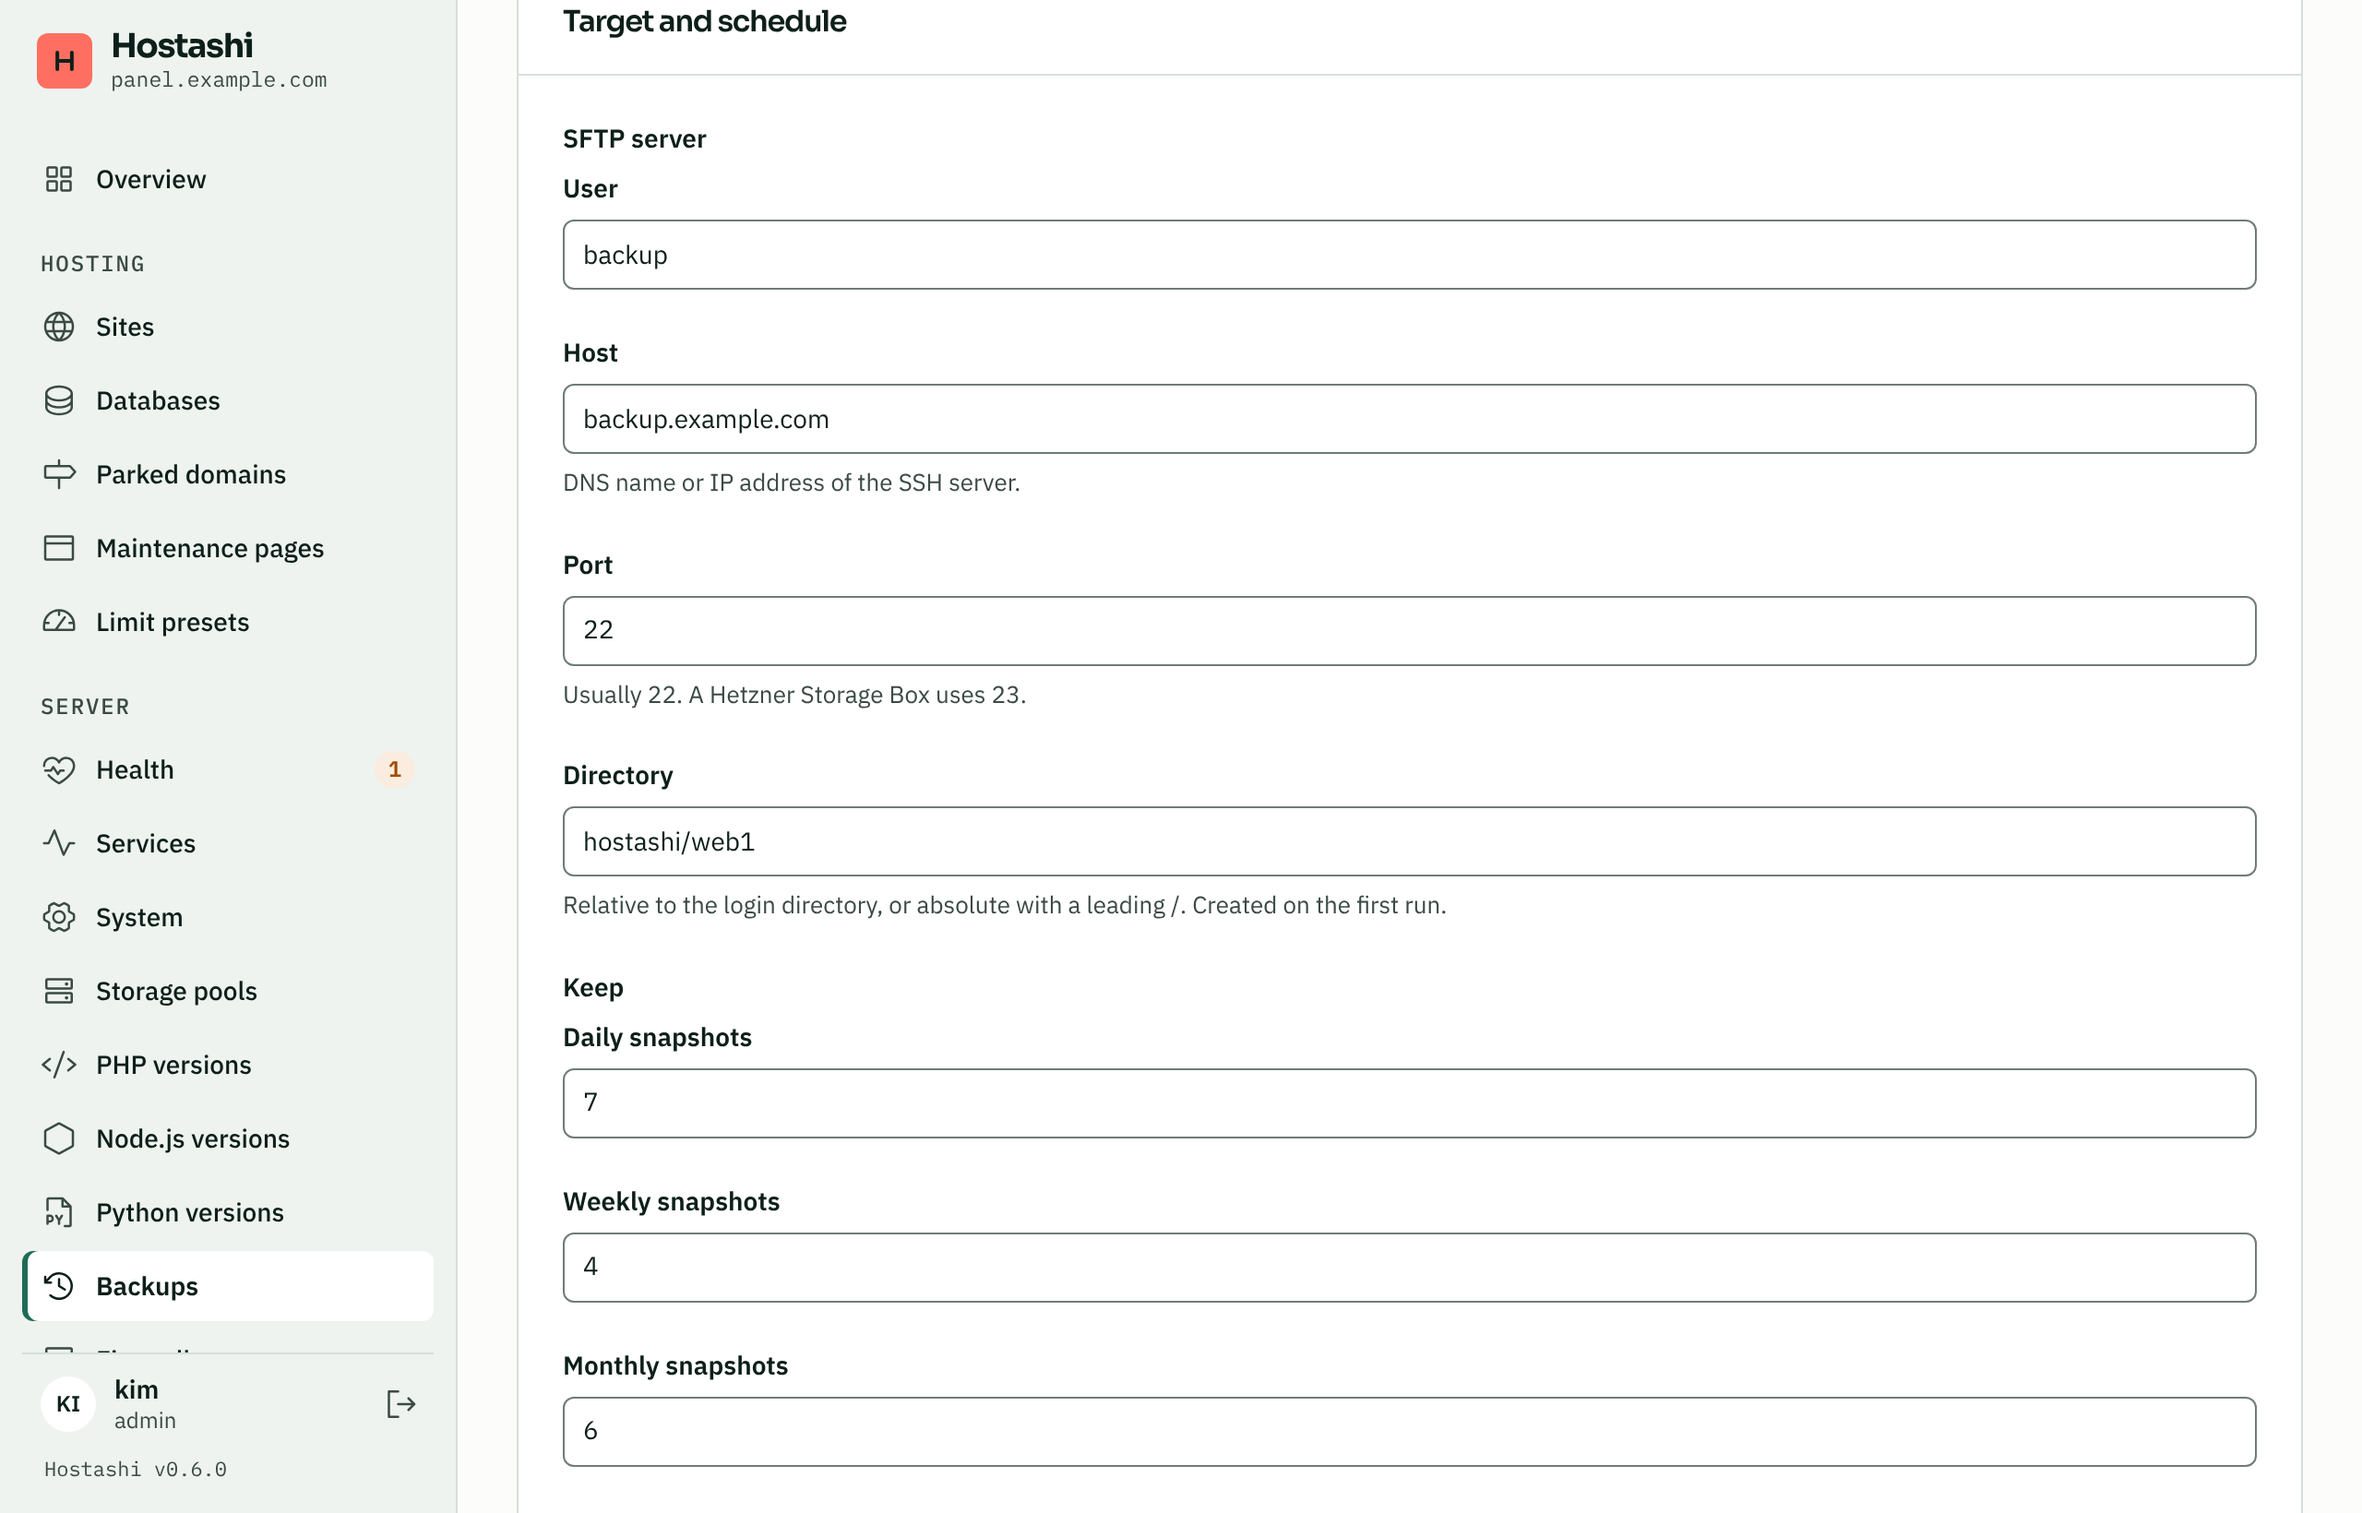
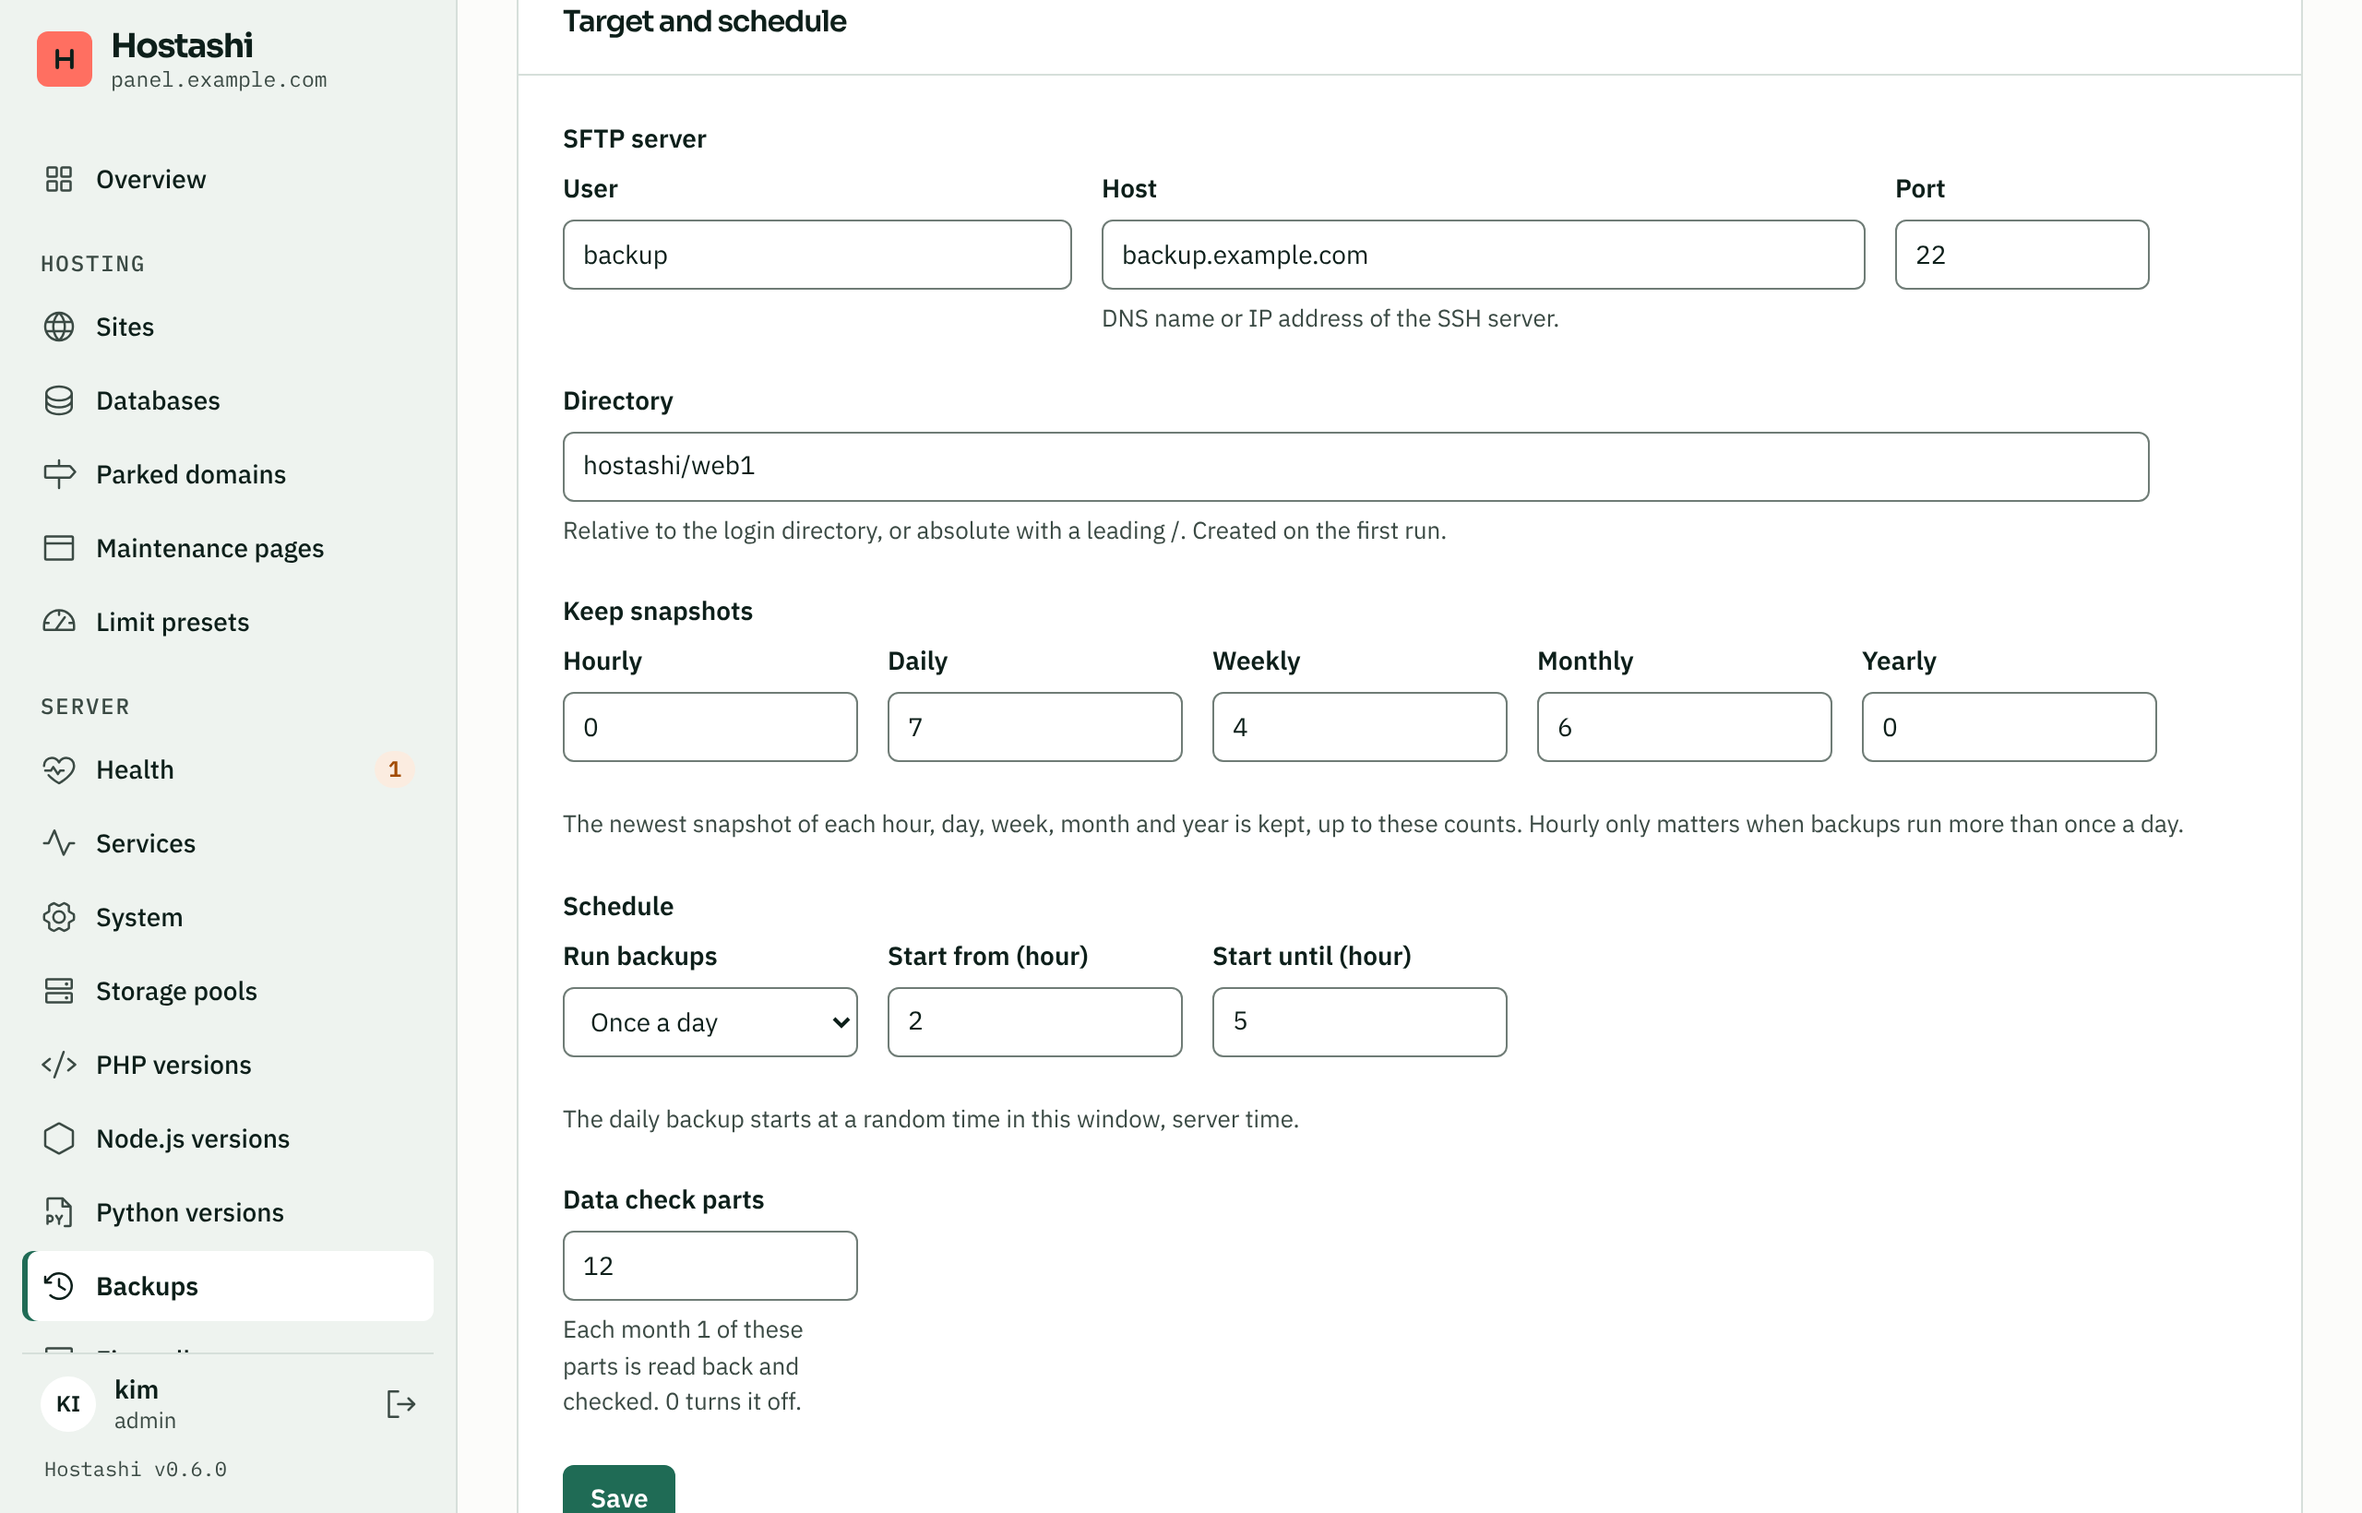
feat(web): choose the backup interval and keep hourly and yearly snapshots (#539)
<!-- claude-projects-attribution: {"github_login":"kimdre"} -->
_Requested by **Kim** · [project
thread](https://claude.ai/code/project/chan_01ALnqCLrQvqEQfEqJ3W4NGd?thread=cmsg_01ALnqCLrQvqEQfEqJ3W4NGd8wFBtxKhMEEfnnwgWReTeh)_

## What and why

Panel part of #537 (ADR-0008 amendment). Screenshots approved by Kim.

- Backup form: select **Run backups** (every hour, every 2/3/4/6/8/12
hours, once a day). The start window only shows for once a day; the hint
explains the fixed random minute and that an overrunning backup skips
the next one.
- Retention: new fields **Hourly** and **Yearly** with a hint.
- Settings from an older agent without the new fields show as daily with
0/0.
- Wiki page Backups updated, screenshots `backups-target.png` and new
`backups-hourly.png`.

Tests: hourly selection hides the window and sends `intervalHours`,
`hourly`, `yearly`; older settings render as daily. Full frontend suite
green locally (867 tests).

## Type

- [x] Documentation or planning
- [ ] ADR (new or changed decision; status stays `Proposed`)
- [ ] CI or repository tooling
- [x] Other: feature (frontend)

## Checklist

- [x] Nothing was copied from CloudPanel (templates, docs text, UI text,
screenshots, code). See [CONTRIBUTING.md](../CONTRIBUTING.md).
- [x] The change does not weaken the security principles (no root web
process, no shell strings, no general exec). Or the conflict is named
above.
- [x] Verified facts, assumptions and estimates are marked as such.
[…]

diff --git a/web/src/Backups.tsx b/web/src/Backups.tsx
@@ -10,6 +10,7 @@ import {
   getImport,
   getRestore,
   importDump,
+  intervals,
   listSites,
   poll,
   runBackup,
@@ -161,9 +162,12 @@ function TargetCard({ info, onSaved }: { info: BackupInfo; onSaved: (i: BackupIn
   const [host, setHost] = useState(s.target?.host ?? "");
   const [port, setPort] = useState(String(s.target?.port ?? 22));
   const [path, setPath] = useState(s.target?.path ?? "hostashi");
+  const [hourly, setHourly] = useState(String(s.retention.hourly ?? 0));
   const [daily, setDaily] = useState(String(s.retention.daily));
   const [weekly, setWeekly] = useState(String(s.retention.weekly));
   const [monthly, setMonthly] = useState(String(s.retention.monthly));
+  const [yearly, setYearly] = useState(String(s.retention.yearly ?? 0));
+  const [interval, setIntervalHours] = useState(String(s.intervalHours ?? 24));
   const [start, setStart] = useState(String(s.windowStart));
   const [end, setEnd] = useState(String(s.windowEnd));
   const [parts, setParts] = useState(String(s.readParts));
@@ -181,7 +185,8 @@ function TargetCard({ info, onSaved }: { info: BackupInfo; onSaved: (i: BackupIn
     const next: Settings = {
       version: s.version,
       target: { user: user.trim(), host: host.trim().toLowerCase(), port: num(port, 22), path: path.trim() },
-      retention: { daily: num(daily, 7), weekly: num(weekly, 4), monthly: num(monthly, 6) },
+      retention: { hourly: num(hourly, 0), daily: num(daily, 7), weekly: num(weekly, 4), monthly: num(monthly, 6), yearly: num(yearly, 0) },
+      intervalHours: num(interval, 24),
       windowStart: num(start, 1),
       windowEnd: num(end, 5),
       readParts: num(parts, 12),
@@ -224,6 +229,9 @@ function TargetCard({ info, onSaved }: { info: BackupInfo; onSaved: (i: BackupIn
         <fieldset className="ui-fieldset ui-stack">
           <legend>Keep snapshots</legend>
           <div className="ui-fields ui-fields-num">
+            <Field label="Hourly">
+              <input className="ui-input" value={hourly} onChange={(e) => setHourly(e.target.value)} inputMode="numeric" required />
+            </Field>
             <Field label="Daily">
               <input className="ui-input" value={daily} onChange={(e) => setDaily(e.target.value)} inputMode="numeric" required />
             </Field>
@@ -233,19 +241,42 @@ function TargetCard({ info, onSaved }: { info: BackupInfo; onSaved: (i: BackupIn
             <Field label="Monthly">
               <input className="ui-input" value={monthly} onChange={(e) => setMonthly(e.target.value)} inputMode="numeric" required />
             </Field>
+            <Field label="Yearly">
+              <input className="ui-input" value={yearly} onChange={(e) => setYearly(e.target.value)} inputMode="numeric" required />
+            </Field>
           </div>
+          <p className="ui-hint ui-flush">
+            The newest snapshot of each hour, day, week, month and year is kept, up to these counts. Hourly only matters when backups run more than once a day.
+          </p>
         </fieldset>
         <fieldset className="ui-fieldset ui-stack">
           <legend>Schedule</legend>
           <div className="ui-fields ui-fields-num">
-            <Field label="Start from (hour)">
-              <input className="ui-input" value={start} onChange={(e) => setStart(e.target.value)} inputMode="numeric" required />
+            <Field label="Run backups">
+              <select className="ui-select" value={interval} onChange={(e) => setIntervalHours(e.target.value)}>
+                {intervals.map((h) => (
+                  <option key={h} value={String(h)}>
+                    {h === 24 ? "Once a day" : h === 1 ? "Every hour" : `Every ${h} hours`}
+                  </option>
+                ))}
+              </select>
             </Field>
-            <Field label="Start until (hour)">
-              <input className="ui-input" value={end} onChange={(e) => setEnd(e.target.value)} inputMode="numeric" required />
-            </Field>
+            {interval === "24" && (
+              <>
+                <Field label="Start from (hour)">
+                  <input className="ui-input" value={start} onChange={(e) => setStart(e.target.value)} inputMode="numeric" required />
+                </Field>
+                <Field label="Start until (hour)">
+                  <input className="ui-input" value={end} onChange={(e) => setEnd(e.target.value)} inputMode="numeric" required />
+                </Field>
+              </>
+            )}
           </div>
-          <p className="ui-hint ui-flush">The daily backup starts at a random time in this window, server time.</p>
+          <p className="ui-hint ui-flush">
+            {interval === "24"
+              ? "The daily backup starts at a random time in this window, server time."
+              : "Backups start at a fixed random minute after each of these hours, counted from midnight, server time. A backup that is still running when the next one is due skips that one."}
+          </p>
           <div className="ui-fields ui-fields-num">
             <Field label="Data check parts" hint="Each month 1 of these parts is read back and checked. 0 turns it off.">
               <input className="ui-input" value={parts} onChange={(e) => setParts(e.target.value)} inputMode="numeric" required />

diff --git a/web/src/Backups.test.tsx b/web/src/Backups.test.tsx
@@ -9,7 +9,7 @@ import type { BackupInfo } from "./backups";
 import { mockFetch } from "./test-utils";
 
 const status = { running: false, ok: false, items: [], maintenanceOk: true };
-const defaults = { version: 1, retention: { daily: 7, weekly: 4, monthly: 6 }, windowStart: 1, windowEnd: 5, readParts: 12 };
+const defaults = { version: 1, retention: { hourly: 0, daily: 7, weekly: 4, monthly: 6, yearly: 0 }, intervalHours: 24, windowStart: 1, windowEnd: 5, readParts: 12 };
 const target = { user: "u123456", host: "u123456.your-storagebox.de", port: 23, path: "hostashi" };
 const pub = "ssh-ed25519 AAAAC3NzaC1lZDI1NTE5AAAAIGtest hostashi-backup@web3";
 
@@ -70,6 +70,42 @@ describe("Backups", () => {
     expect(await screen.findByLabelText("Public key")).toHaveTextContent(pub);
     expect(calls.find((c) => c.method === "PUT")?.body).toEqual({ ...defaults, target: nas });
     expect(screen.queryByText(/Hetzner.s console/)).not.toBeInTheDocument();
+  });
+
+  it("runs backups every hour and keeps hourly and yearly snapshots", async () => {
+    const user = userEvent.setup();
+    const nas = { user: "backup", host: "192.0.2.10", port: 22, path: "hostashi" };
+    const hourly = { ...defaults, target: nas, intervalHours: 1, retention: { ...defaults.retention, hourly: 48, yearly: 3 } };
+    const calls = mockFetch({
+      "GET /api/v1/backups": { body: fresh },
+      "PUT /api/v1/backups/settings": { body: { ...fresh, settings: hourly, publicKey: pub } },
+    });
+    render(<Harness />);
+    expect(await screen.findByLabelText("Start from (hour)")).toBeInTheDocument();
+    await user.type(screen.getByLabelText("User"), "backup");
+    await user.type(screen.getByLabelText("Host"), "192.0.2.10");
+    await user.selectOptions(screen.getByLabelText("Run backups"), "Every hour");
+    expect(screen.queryByLabelText("Start from (hour)")).not.toBeInTheDocument();
+    expect(screen.getByText(/skips that one/)).toBeInTheDocument();
+    const h = screen.getByLabelText("Hourly");
+    await user.clear(h);
+    await user.type(h, "48");
+    const y = screen.getByLabelText("Yearly");
+    await user.clear(y);
+    await user.type(y, "3");
+    await user.click(screen.getByRole("button", { name: "Save" }));
+    expect(await screen.findByLabelText("Public key")).toHaveTextContent(pub);
+    expect(calls.find((c) => c.method === "PUT")?.body).toEqual(hourly);
+    expect(screen.getByLabelText("Run backups")).toHaveValue("1");
+  });
+
+  it("shows an older server's settings as daily without hourly or yearly snapshots", async () => {
+    const old = { version: 1, retention: { daily: 7, weekly: 4, monthly: 6 }, windowStart: 1, windowEnd: 5, readParts: 12 };
+    mockFetch({ "GET /api/v1/backups": { body: { ...fresh, settings: old } } });
+    render(<Harness />);
+    expect(await screen.findByLabelText("Run backups")).toHaveValue("24");
+    expect(screen.getByLabelText("Hourly")).toHaveValue("0");
+    expect(screen.getByLabelText("Yearly")).toHaveValue("0");
   });
 
   it("warns when a Storage Box is set on another port than 23", async () => {

diff --git a/web/src/backups.ts b/web/src/backups.ts
@@ -11,11 +11,16 @@ export type Target = { user: string; host: string; port: number; path: string };
 export type Settings = {
   version: number;
   target?: Target;
-  retention: { daily: number; weekly: number; monthly: number };
+  retention: { hourly: number; daily: number; weekly: number; monthly: number; yearly: number };
+  // Hours between two scheduled runs; 24 is the daily run in the window.
+  intervalHours: number;
   windowStart: number;
   windowEnd: number;
   readParts: number;
 };
+
+// The intervals the agent accepts (ADR-0008, amendment 2026-11-25).
+export const intervals = [1, 2, 3, 4, 6, 8, 12, 24];
 
 export type ItemResult = {
   kind: string;

diff --git a/web/src/App.test.tsx b/web/src/App.test.tsx
@@ -34,7 +34,7 @@ describe("App start", () => {
       "GET /api/v1/auth/me": { body: { ...admin, auth: "session" } },
       "GET /api/v1/backups": {
         body: {
-          settings: { version: 1, retention: { daily: 7, weekly: 4, monthly: 6 }, windowStart: 1, windowEnd: 5, readParts: 12 },
+          settings: { version: 1, retention: { hourly: 0, daily: 7, weekly: 4, monthly: 6, yearly: 0 }, intervalHours: 24, windowStart: 1, windowEnd: 5, readParts: 12 },
           publicKey: "",
           hostKey: "",
           ready: false,

diff --git a/docs/wiki/Backups.md b/docs/wiki/Backups.md
@@ -13,8 +13,9 @@ Any SSH server that offers SFTP and accepts key login works: a Hetzner Storage B
 3. The panel shows a **public key**. Add it to `~/.ssh/authorized_keys` of that account (on a Storage Box also possible in Hetzner's console).
 4. Under **Host key**, fetch the server's SSH host key and compare the fingerprint with the server's own, for example `ssh-keygen -lf /etc/ssh/ssh_host_ed25519_key.pub` on that server, or the fingerprints your provider publishes. Backups start only after you confirm it.
    ![The target form for an SFTP server](images/backups-target.png)
-5. Choose the time window: the daily backup starts at a random time between the two hours (server time).
-6. Choose how many daily, weekly and monthly snapshots to keep.
+5. Under **Run backups**, choose how often: once a day, or every 1, 2, 3, 4, 6, 8 or 12 hours. Once a day starts at a random time in the window between the two hours. Shorter intervals start at a fixed random minute after each of those hours, counted from midnight. All times are server time. A backup that is still running when the next one is due skips that one, so two backups never overlap.
+6. Choose how many hourly, daily, weekly, monthly and yearly snapshots to keep. For each hour, day, week, month and year, the newest snapshot is kept, up to these counts. Hourly only matters when backups run more than once a day; hourly and yearly are 0 by default.
+   ![Hourly backups that keep 48 hourly and 3 yearly snapshots](images/backups-hourly.png)
 
 **Back up now** runs a backup right away; it runs in the background.
 
